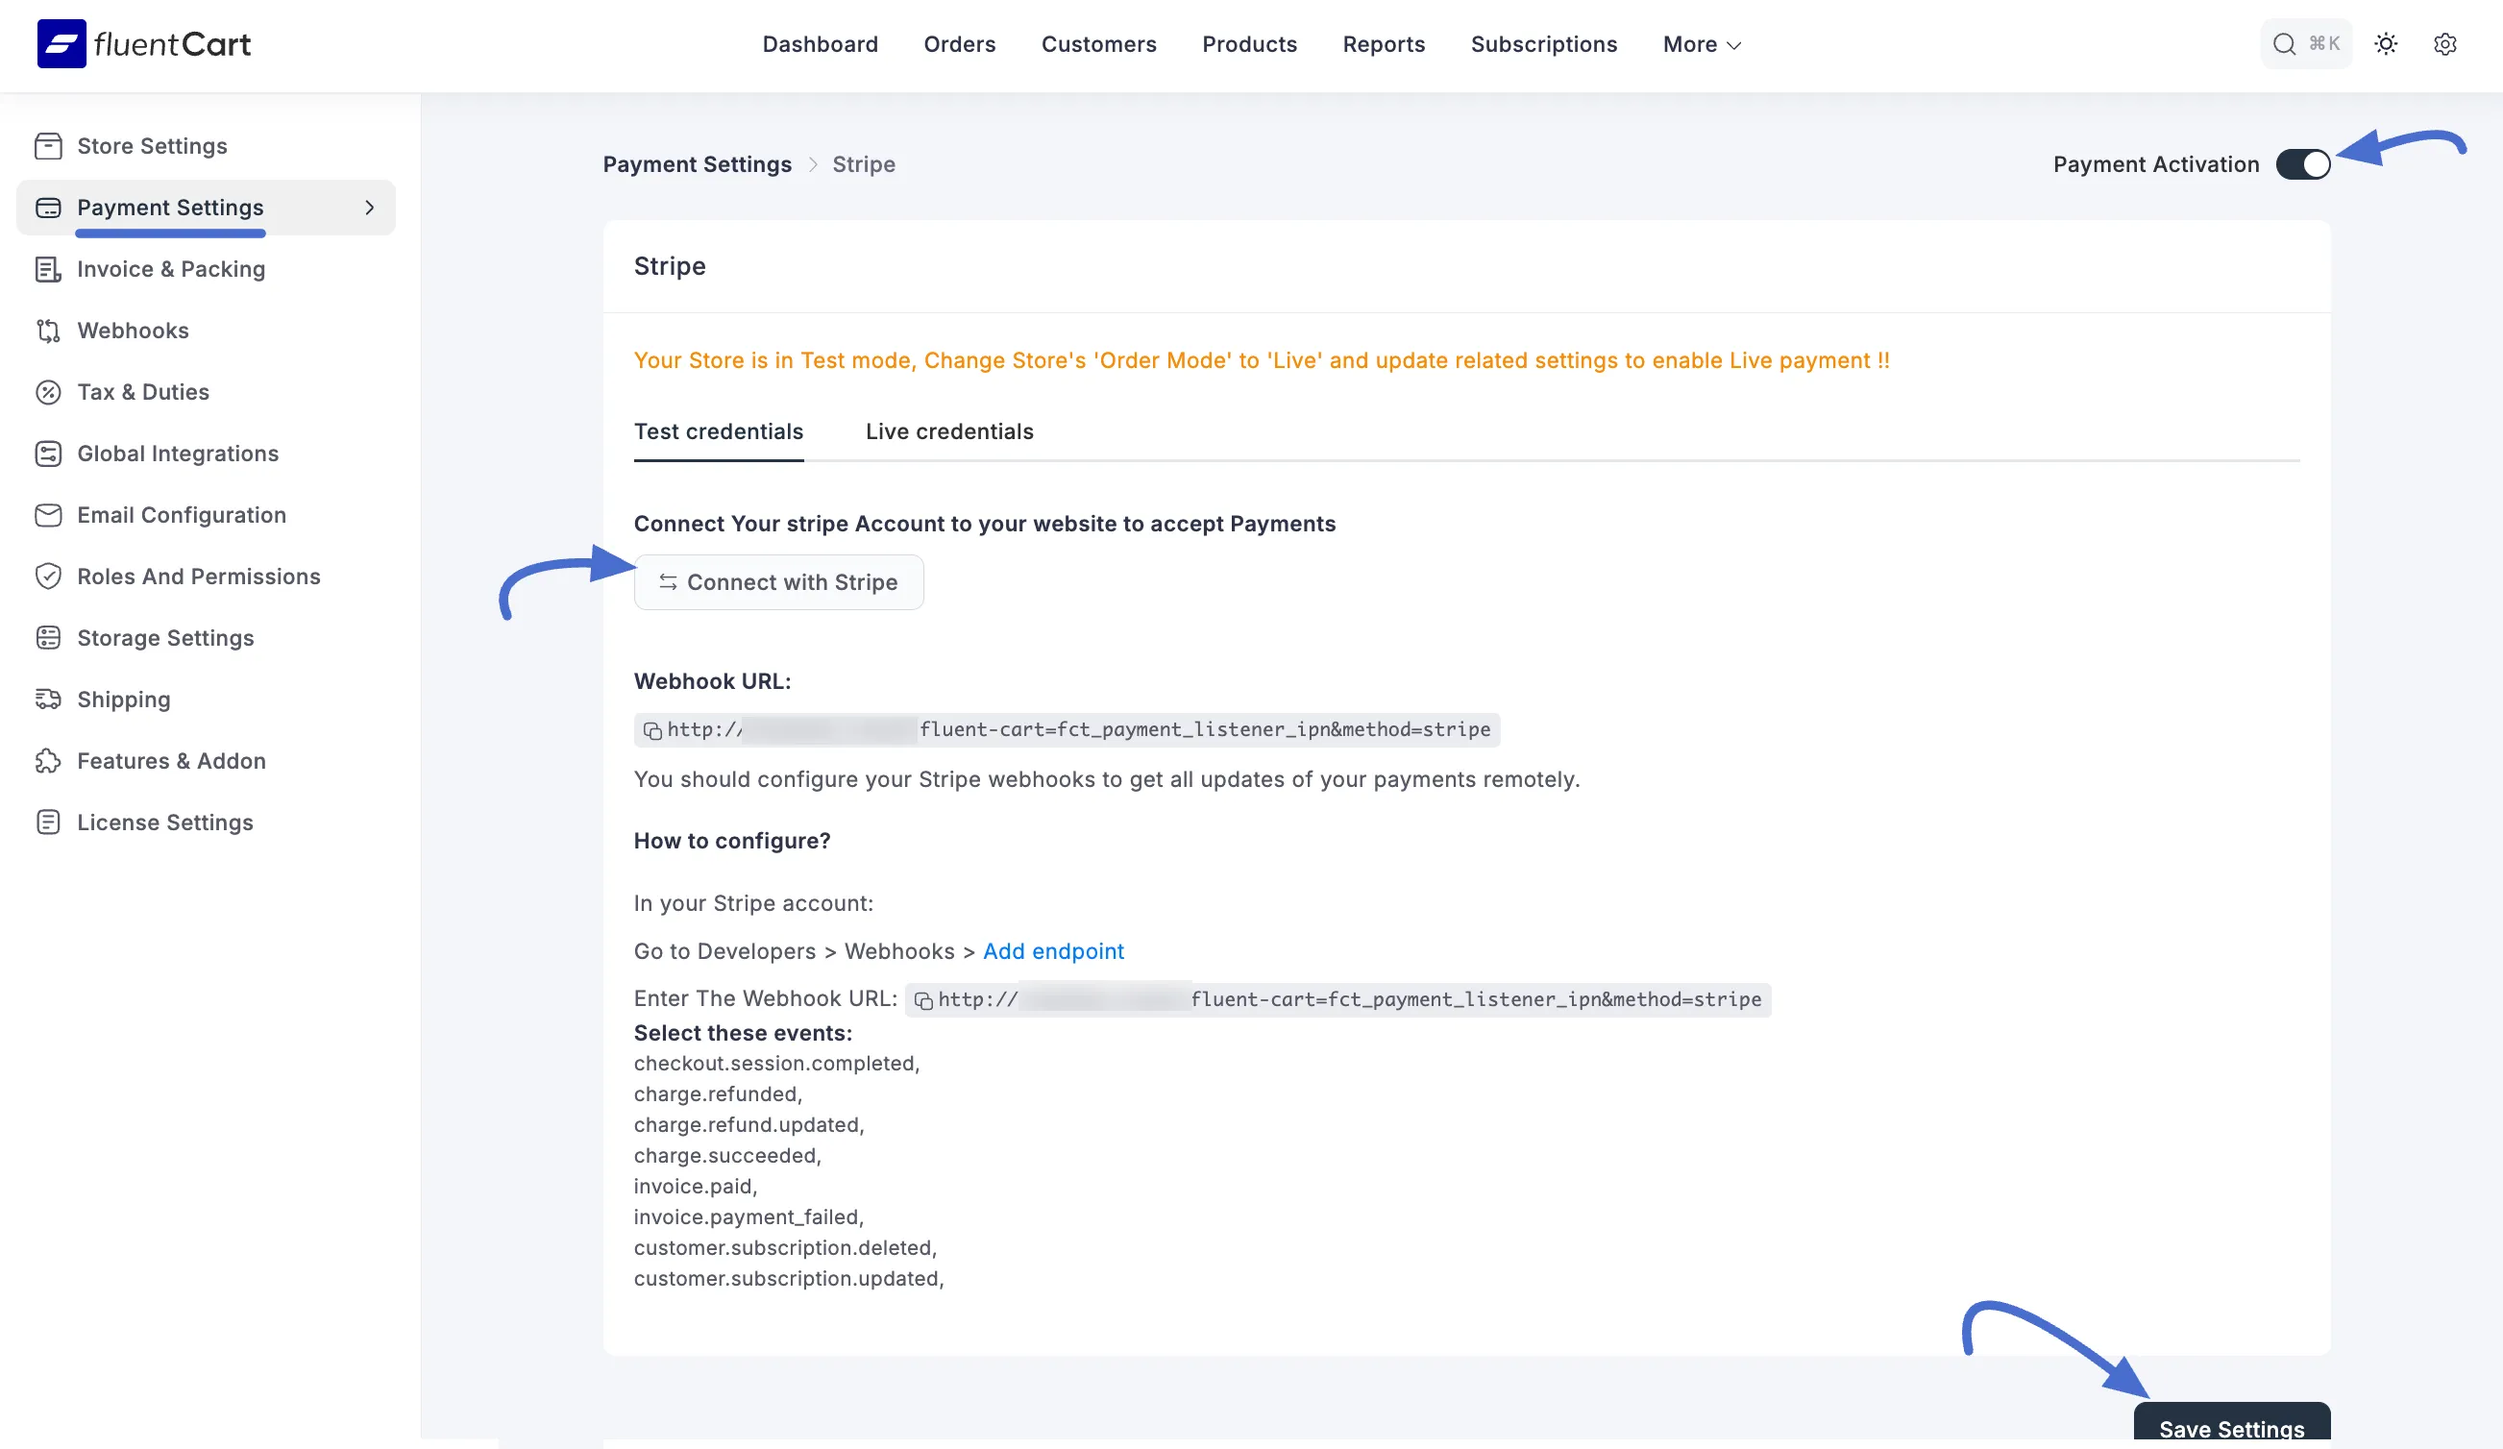
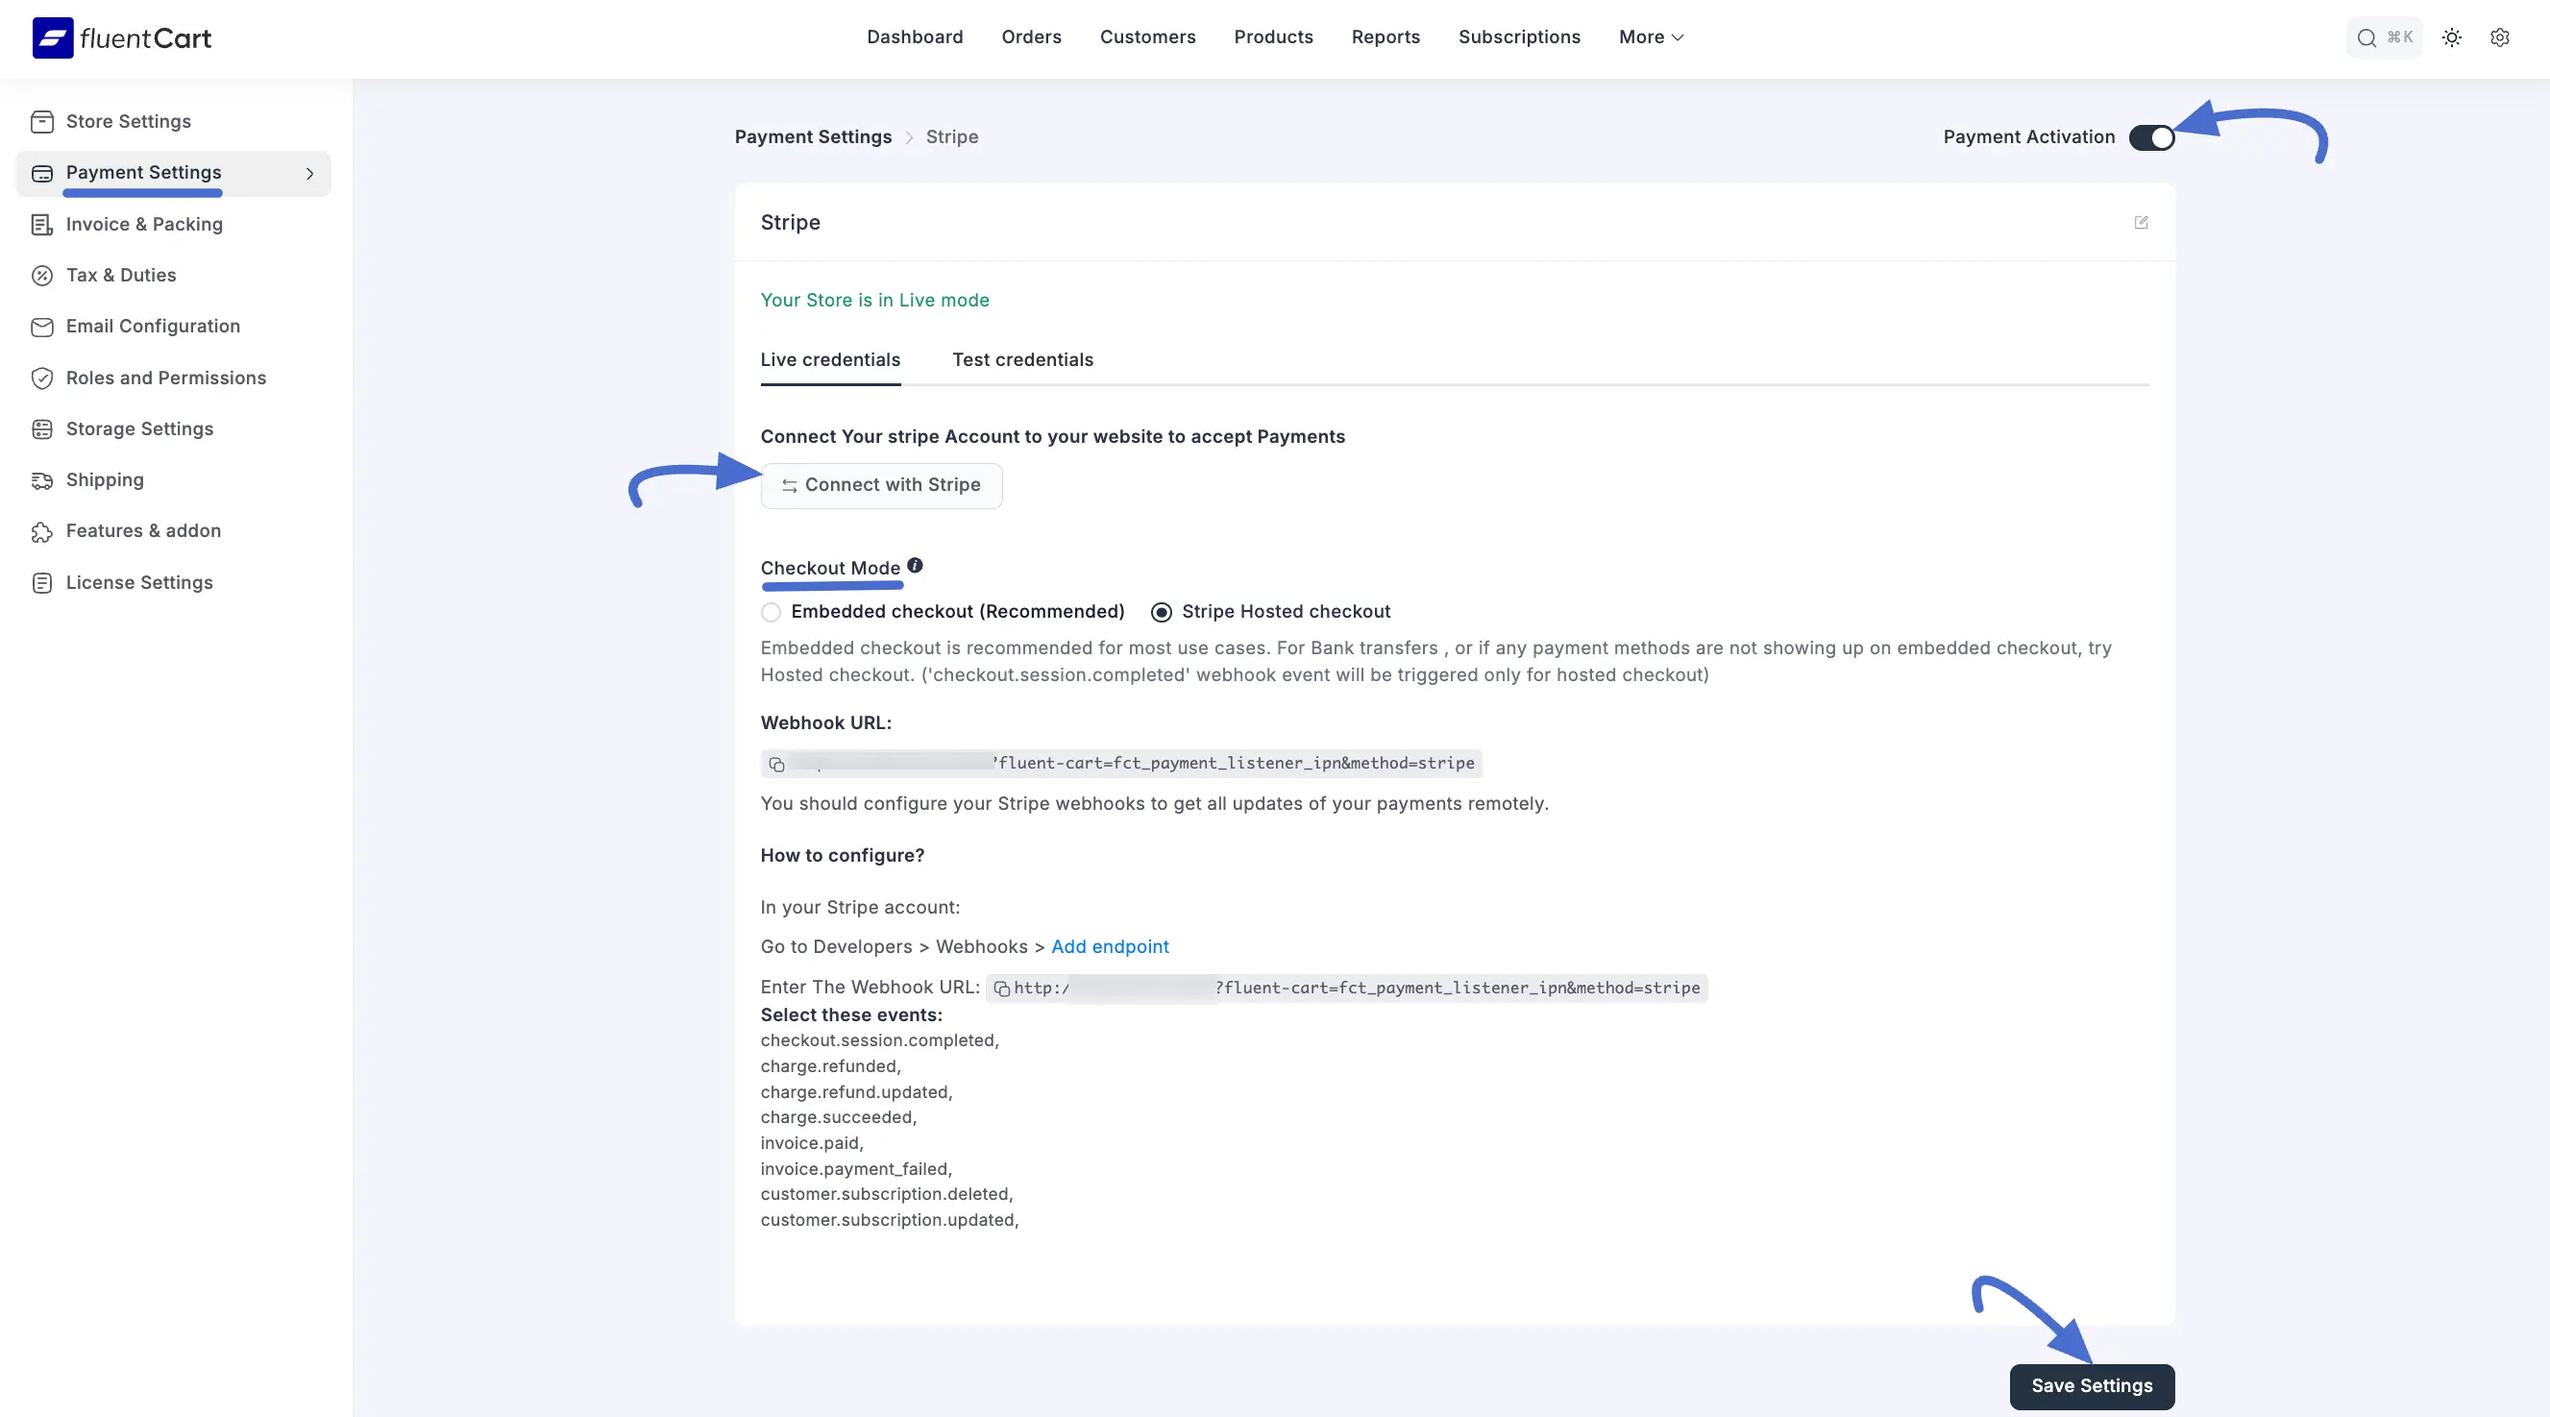
update Stripe Settings doc

diff --git a/guide/payments-checkout/connecting-payment-gateways/stripe-settings.md b/guide/payments-checkout/connecting-payment-gateways/stripe-settings.md
@@ -1,3 +1,8 @@
+---
+title: "Stripe Settings"
+description: "Learn how to connect and configure Stripe payment gateway in FluentCart to securely accept credit cards, debit cards, and various payment methods through embedded or hosted checkout."
+---
+
 # Stripe Settings
 
 Stripe is a powerful and globally recognized payment platform that allows you to securely accept credit cards, debit cards, and various other payment methods through a single, seamless integration.
@@ -26,9 +31,16 @@ The Stripe settings page allows you to connect your store in both Test and Live 
 FluentCart securely stores your Stripe connection information using a salt key encryption method. This ensures your informations remain fully encrypted in the database and protected from unauthorized access.
 :::
 
+#### Step 3: Choose Your Checkout Mode
+
+FluentCart gives you two different ways for customers to pay:
+
+ * **Embedded checkout (Recommended):** This keeps the customer on your website. It’s a customizable block that lets you control the design.
+ * **Stripe Hosted checkout:** This sends the customer to a secure page managed by **Stripe**. This is great for high-volume stores or if you want Stripe to handle all the complex security rules for you.
+
 ![Screenshot of Stripe Settings Page](/images/payments-checkout/stripe-payment/stripe-settings.webp)
 
-#### Step 3: Configure Webhooks
+#### Step 4: Configure Webhooks
 
 Webhooks are essential for the integration to function correctly. They allow Stripe to send real-time notifications to your store about payment events, such as successful charges, refunds, and subscription updates.
 
@@ -60,7 +72,7 @@ Next, type a destination name, **paste** the **webhook URL** you copied earlier 
 
    ![Screenshot of Stripe Settings Page](/images/payments-checkout/stripe-payment/create-destination.webp)
 
-#### Step 4: Activate and Save
+#### Step 5: Activate and Save
 
 1.  **Payment Activation:** Back on the **FluentCart Stripe settings** page, ensure the **Payment Activation** toggle at the top right is switched on.
 2.  **Save Settings:** Click the **Save Settings** button at the bottom to finalize the setup.
